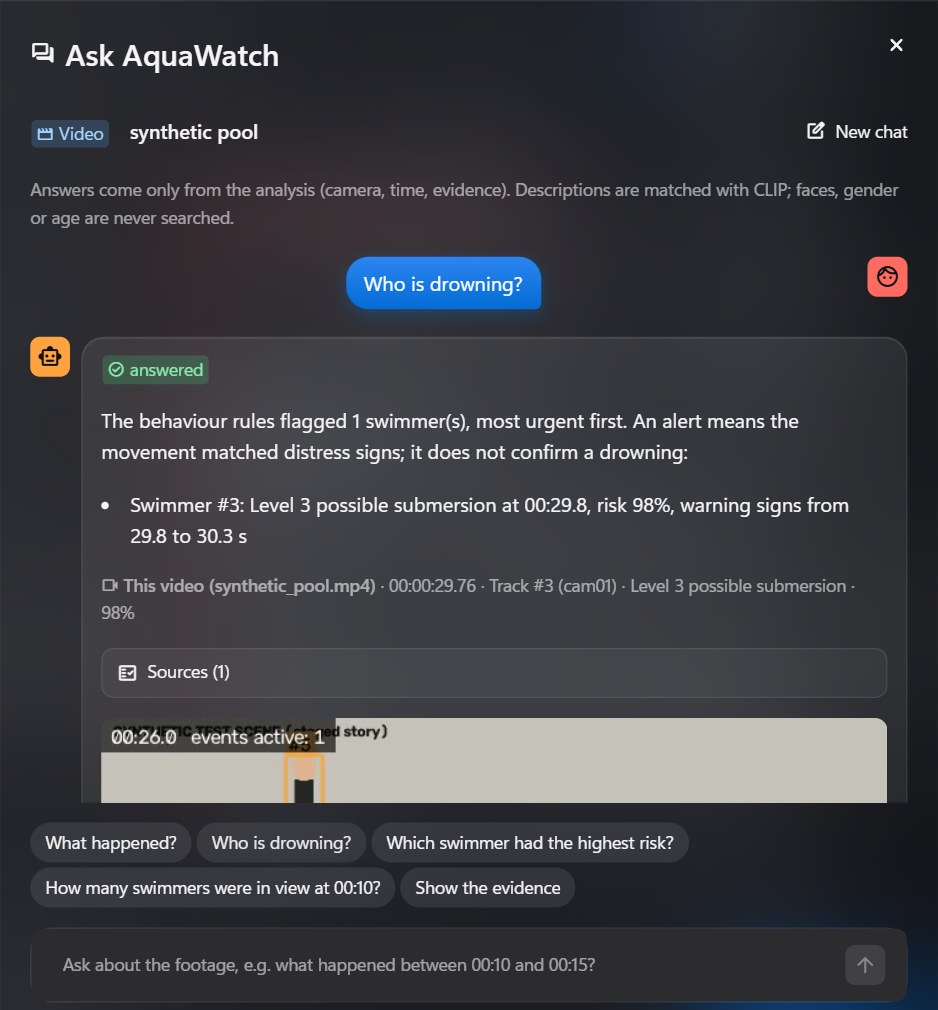
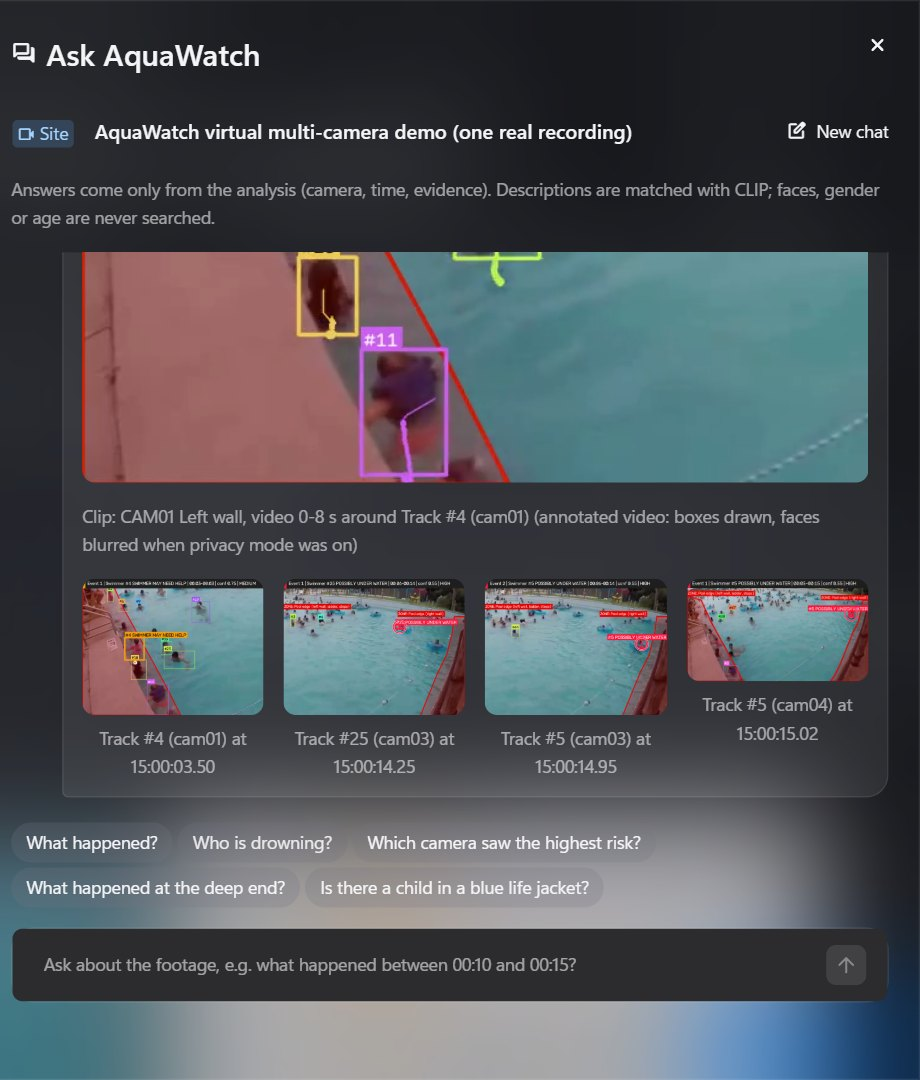
README: project spec, behavioural analysis, tech stack and screenshots

diff --git a/README.md b/README.md
@@ -1,62 +1,251 @@
 # AquaWatch
 
-**Drowning early warning for swimming-pool CCTV.** AquaWatch watches every swimmer, spots distress behaviour and
-alerts the lifeguard: who, where, when and why.
+**An early-warning assistant that watches pool CCTV, reads how every swimmer behaves, and alerts the lifeguard
+before a swimmer in trouble goes unnoticed.**
 
-![AquaWatch results page](images/results.jpg)
+![Single-camera analysis](images/single_camera.jpg)
 
-> **Research prototype.** An extra pair of eyes for lifeguards, never a replacement. On our labelled test videos it
-> caught 2 of 6 victims and raised 13 false alerts.
+> Research prototype. An extra pair of eyes for lifeguards, never a replacement.
 
-## What it does
+---
 
-- **Tracks** every swimmer in the video.
-- **Reads behaviour** twice a second: posture, forward progress, arm movement, head position.
-- **Scores distress** and raises spoken alerts in 3 levels.
-- **Joins several cameras** on one timeline.
-- **Answers questions** in plain English, with the camera, the time and a video clip as proof.
-- **Runs on a laptop CPU**, offline, using 2 threads.
+## 1. The idea
 
-## How it works
+**The problem.** Drowning is usually silent. A swimmer in trouble rarely shouts or waves: they stay upright, make no
+forward progress, press their arms down and their head sinks low. In a crowded pool a lifeguard can miss this for the
+few seconds that matter. Most pools already have CCTV, but nobody can watch every screen all the time.
 
-```mermaid
-flowchart LR
-    V["Pool video"] --> D["Detect and track swimmers<br/>YOLO11 + ByteTrack"]
-    D --> B["Behaviour every 0.5 s<br/>posture, progress, arms, head"]
-    B --> R["Distress risk score"]
-    R --> A["Alert<br/>who, where, when, why"]
-    A --> S["Dashboard + spoken alert"]
-```
+**Our solution.** AquaWatch turns that existing CCTV into a second pair of eyes:
 
-| Level | Alert | When |
-|---|---|---|
-| 1 | Swimmer may need help | risk stays at warning level (0.55) |
-| 2 | High-risk distress | risk 0.7 or more for 5 s |
-| 3 | Possible submersion | a swimmer in distress disappears |
+- It follows **every swimmer** in the video, all the time.
+- It judges **behaviour over time**, not a single frame, so normal swimming, resting and treading water are not
+  mistaken for distress.
+- It raises an **explained alert**: who, where, when, why, with a picture, a chart and a spoken message.
+- It joins **several cameras** on one timeline.
+- Staff can **ask questions in plain English** ("Who is drowning?") and get answers backed by the camera, the time and
+  a video clip.
+- It runs on an **ordinary laptop CPU, offline**. No cloud, no GPU, and faces are never searched.
 
-```mermaid
-flowchart LR
-    C1["Camera 1"] --> P["Same pipeline<br/>on every camera"]
-    C2["Camera 2"] --> P
-    C3["Camera 3"] --> P
-    P --> I[("One event index")]
-    I --> Q["Chat: ask in plain English"]
-    Q --> Ans["Answer with camera,<br/>time and clip"]
-```
+**What makes it different:** explainable behaviour rules instead of a black box, answers that come only from the
+analysis (no AI guessing), and a design that fits cheap hardware a real pool already has.
 
-## Screenshots
+## 2. Scope
 
-| Alerts with evidence | Chat with proof |
+| | |
 |---|---|
-| ![Alert cards](images/alerts.jpg) | ![Chat answer](images/chat.jpg) |
+| **Users** | Lifeguards, pool managers and safety staff; researchers in water safety |
+| **Input** | Recorded pool videos (sample, upload or laptop webcam); one camera or a site of several cameras |
+| **Output** | Alerts, a swimmer status board, an annotated replay, reports, a multi-camera timeline and a chat |
+| **Not in scope** | Live camera streams, face recognition, a certified safety device |
 
-![Multi-camera events](images/multicamera.jpg)
+## 3. System overview
 
-The single-camera screens show our drawn test scene (no real people).
+```mermaid
+flowchart LR
+    V["Pool video"] --> S1["Stage 1<br/>Detect + track<br/>YOLO11 + ByteTrack"]
+    S1 --> S2["Stage 2<br/>Behaviour signals<br/>every 0.5 s"]
+    S2 --> S3["Stage 3<br/>Risk score +<br/>state machine"]
+    S3 --> A["Alerts<br/>who, where, when, why"]
+    A --> UI["Dashboard<br/>status board, replay, reports"]
+    A --> SP["Spoken alert"]
+    A --> IX[("Event index<br/>SQLite")]
+    IX --> CH["Chat<br/>grounded answers"]
+```
 
-## Quick start
+For several cameras, the same pipeline runs on every camera and all events go into one index:
 
-Python 3.11 on Windows, macOS or Linux.
+```mermaid
+flowchart LR
+    C1["Camera 1"] --> P["Pool pipeline<br/>per camera"]
+    C2["Camera 2"] --> P
+    C3["Camera N"] --> P
+    P --> IX[("One event index<br/>one site timeline")]
+    IX --> L["Cross-camera links<br/>same swimmer"]
+    IX --> Q["Ask in plain English"]
+    Q --> R["Answer with camera,<br/>time and clip"]
+```
+
+## 4. Functional requirements
+
+| ID | Requirement | How AquaWatch meets it |
+|---|---|---|
+| FR-1 | Take a pool video | Sample, upload or webcam recording; optional pool zones (deep end, shallow end, wall) |
+| FR-2 | Find and follow every swimmer | YOLO11 detector + ByteTrack tracker; broken tracks are re-joined |
+| FR-3 | Describe behaviour | Posture, progress, arms and head every 0.5 s (section 5) |
+| FR-4 | Score distress | Weighted risk score and a per-swimmer state machine (section 5) |
+| FR-5 | Alert with evidence | 3 alert levels + urgent "possibly under water", each with reasons, snapshot, chart and voice |
+| FR-6 | Show every swimmer's state | Status board synced to a replay slider: normal, watch, warning, not judged |
+| FR-7 | Keep a record | HTML report, summary, highlight reel, timeline, heatmap, JSON files, run log |
+| FR-8 | Handle several cameras | Camera registry, one site timeline, same swimmer linked across cameras |
+| FR-9 | Answer questions | Plain-English chat; every answer cites camera, time and evidence |
+| FR-10 | Learn place names | Asks once which camera "the deep end" is, then remembers it |
+| FR-11 | Find described things | "Is there a child in a blue life jacket?" via CLIP search and a YOLOE check |
+| FR-12 | Check the camera feed | Flags a video that ends early, freezes, has gaps or is too dark |
+| FR-13 | Protect privacy | Runs locally; faces, gender, age never searched; optional face blur |
+
+## 5. Behavioural analysis
+
+### 5.1 Behaviour signals (stage 2)
+
+Every **0.5 s**, for every tracked swimmer, AquaWatch looks at the last **2 s** and measures:
+
+| Signal | What it means | Measured from |
+|---|---|---|
+| **Posture** | horizontal (swimming) / vertical (upright) / head only / underwater | our trained detector's class, else the torso angle from pose keypoints, else the box shape |
+| **Forward progress** | net distance travelled per second, and progress ratio (straight line vs going nowhere) | box centre over time |
+| **Arm movement** | repeated (distress-like) / stroking (swimming) / calm | wrist peaks per second from pose keypoints (6 per second) |
+| **Head** | stable / unstable / submerged | head visibility and bobbing; head height above the shoulders |
+| **Transition** | was this swimmer swimming normally just before? | the last 30 s of the same track |
+| **Stationary** | upright and not moving for 4 s or more | posture + progress |
+
+All distances are measured in **body heights**, so the same rules work near and far from the camera. A new posture
+must last 1 s before it counts (no flicker), and a track that jumps (possible ID switch) is ignored.
+
+![Behaviour notes per swimmer](images/behaviour.jpg)
+
+### 5.2 Distress scoring (stage 3)
+
+Each sample gets a **risk score** = the sum of the warning signs present (max 1.0):
+
+| Warning sign | Weight |
+|---|---|
+| Vertical posture | 0.25 |
+| Little or no forward progress | 0.25 |
+| Repeated distress-like arm movement | 0.25 |
+| Unstable head | 0.15 |
+| Upright and still for a long time | 0.15 |
+| Was swimming normally just before | 0.10 |
+
+**Look-alikes are damped,** so normal pool life does not raise alarms:
+
+- Resting at the wall with calm arms: risk × 0.3.
+- Treading water (upright, calm arms, steady head): risk capped at 0.45.
+- Standing still in the shallow end or on the steps is normal.
+- People outside the water zone are ignored.
+
+A **state machine** per swimmer turns the risk curve into states:
+
+```mermaid
+flowchart LR
+    N["NORMAL"] -->|"risk ≥ 0.3"| W["WATCH"]
+    W -->|"risk ≥ 0.55"| WA["WARNING"]
+    WA -->|"risk ≥ 0.7 held 5 s"| D["DISTRESS"]
+    WA -->|"lost 1.5 s or<br/>head under 1 s"| S["SUBMERSION"]
+    D -->|"lost 1.5 s or<br/>head under 1 s"| S
+```
+
+### 5.3 Alerts
+
+| Level | Alert | Raised when |
+|---|---|---|
+| 1 | **Swimmer may need help** | risk at warning level (0.55) in at least half of the last 5 s |
+| Urgent | **Possibly under water** | a swimmer vanishes in open water, the spot stays empty for 5 s, and someone appears at the same spot within 20 s |
+| 2 | **High-risk aquatic distress** | risk 0.7 or more, held for 5 s |
+| 3 | **Possible submersion** | a swimmer in warning or distress disappears, or the head stays under |
+
+Every alert says **who** (swimmer number), **where** (camera, zone, part of the picture), **when**, and **why** (the
+signs it saw). It has a confidence = 0.4 × margin past the threshold + 0.3 × duration + 0.3 × detection confidence,
+an evidence snapshot, a risk chart, and a **spoken message** ("Lifeguard, please check Swimmer number 2 ...").
+
+| Alert card | Why it was flagged |
+|---|---|
+| ![Alert card](images/alert.jpg) | ![Distress score and evidence](images/distress.jpg) |
+
+## 6. Multi-camera site and chat
+
+**Multi-camera site.** A camera registry lists each camera's name, video, start time and zones. AquaWatch runs the
+pipeline on every camera and writes all events into one SQLite index with video time and clock time. The site page
+shows every camera, the swimmers in view, a risk timeline per camera and all events in one table. The same swimmer is
+linked across overlapping cameras from known camera geometry; colour-based look-alike matches are only offered as
+"unverified". Our demo site is **4 views cut from one recording**, not 4 physical cameras.
+
+![Multi-camera view](images/multi_camera.jpg)
+
+![Events from all cameras](images/multi_camera_events.jpg)
+
+**Chat ("Ask AquaWatch").** A drawer on every page:
+
+- **Grounded answers:** what happened, who may be in trouble, the highest risk, who was in view at a time, the
+  evidence for an alert. Answers are built only from the analysis files, never invented, and cite camera, time,
+  track and a clip.
+- **Question routing:** a CLIP text encoder matches the question to the right kind of answer (no chatbot model).
+- **Clarify once:** an unknown place ("the deep end") is asked about once, saved, and remembered after a restart.
+- **Description search:** CLIP ranks video frames for a description; "Check with YOLOE" can confirm with a box or
+  say "no confident match".
+- **Privacy:** questions about faces, race, skin colour, gender or age are always refused.
+
+<img src="images/chat.jpg" alt="Chat answer with a clip" width="520">
+
+## 7. Non-functional requirements
+
+| Area | Requirement |
+|---|---|
+| **Hardware** | Runs on a laptop CPU, no GPU needed |
+| **Laptop stays usable** | 2 CPU threads and below-normal priority for every analysis (change with `AQUAWATCH_THREADS`) |
+| **Speed** | Detector time per frame on a laptop CPU: 109 ms (swimmer model), 114.5 ms (standard), 729 ms (wide CCTV) |
+| **Offline** | After setup no internet is needed; no usage analytics or telemetry |
+| **Privacy** | Dashboard opens on this computer only; faces never searched; optional face blur on every output |
+| **Explainability** | Every alert shows its signs, numbers, snapshot and chart |
+| **Reliability** | Optional steps (pose, rendering) never crash a run; the camera feed is checked on every run |
+| **Portability** | Windows, macOS and Linux; Python 3.11 |
+| **Configurable** | Every threshold lives in `config.yaml` |
+
+## 8. Quantization and speed-up
+
+The laptop has no GPU, so we made the models faster on a CPU, but only if the boxes stay **exactly as good**. We
+fixed the rule before measuring: a converted model is accepted only if its boxes match the original PyTorch FP32
+model with **F1 ≥ 0.98** on 100 frames.
+
+| Detector | PyTorch FP32 | **OpenVINO FP32 (used)** | OpenVINO INT8 | ONNX INT8 |
+|---|---|---|---|---|
+| YOLO11n @ 640 | 176 ms | **114.5 ms, F1 1.000 (1.54× faster)** | 78 ms, F1 0.927 | 194 ms, F1 0.732 |
+| YOLO11s @ 960 | 975 ms | **729 ms, F1 1.000 (1.34× faster)** | 468 ms, F1 0.917 | 1101 ms, F1 0.800 |
+| Our swimmer model @ 640 | 161 ms | **109 ms, F1 1.000 (1.48× faster)** | 75 ms, F1 0.931 | 188 ms, F1 0.848 |
+
+- **Used: OpenVINO FP32 exports** of all three detectors: identical boxes, 1.3-1.5× faster.
+- **Rejected: INT8** (NNCF and ONNX Runtime post-training quantization). It was up to 2× faster and 3× smaller, but
+  it changed 7-8 % of the boxes. This CPU has no VNNI instructions, so INT8 gains less here than on newer CPUs.
+- **YOLOE / YOLO-World** (chat's "Check with YOLOE"): OpenVINO FP32 exports, 1.4× faster with identical results;
+  INT8 failed.
+- **CLIP search:** the frame index stores **INT8 embeddings** (half the size of FP16, index 588 KB) with the same
+  accuracy. Quantizing CLIP's own weights to INT8 was rejected: it reordered the search results too much.
+- The OpenVINO and ONNX runtimes are capped to the same 2 threads, so the laptop stays usable.
+
+## 9. Tech stack
+
+| Layer | Technology | Used for |
+|---|---|---|
+| Language | **Python 3.11** | everything |
+| Detection | **Ultralytics YOLO11** (YOLO11n, YOLO11s) | finding swimmers |
+| Custom model | **YOLO11n fine-tuned** on 13,081 pool images, 5 classes | swimmer posture: horizontal, vertical, head only, underwater, out of water |
+| Pose | **YOLO11n-pose** | wrists, shoulders, head for arm and head signals |
+| Tracking | **ByteTrack** (Ultralytics, `lap`) + our track stitching | one ID per swimmer over time |
+| Speed-up | **OpenVINO** FP32 IR; NNCF, ONNX Runtime (INT8 trials); **PyTorch** CPU | fast CPU inference (section 8) |
+| Vision-language | **OpenAI CLIP ViT-B/32** via `open_clip` | question routing, description search |
+| Open-vocabulary detection | **YOLOE**, **YOLO-World** | confirming a described object |
+| Video and images | **OpenCV**, **NumPy**, **Pillow**, FFmpeg (optional, H.264) | reading frames, drawing, annotated video |
+| Charts | **Matplotlib** | risk charts, timeline, heatmap |
+| Storage | **SQLite**, JSON / JSONL, **YAML** | event index, saved places, results, settings |
+| Dashboard | **Streamlit 1.65** + custom CSS (light and dark glass theme) | the web interface |
+| Speech | System voices: Windows System.Speech, macOS `say`, Linux `espeak` | offline spoken alerts |
+| Training | **Roboflow Universe** datasets (CC BY 4.0), **Google Colab** T4 GPU | training the swimmer model |
+| Testing | **pytest**, Streamlit AppTest | automated tests (local suite) |
+
+## 10. Results (honest)
+
+| What | Result |
+|---|---|
+| Drawn test scene with ground truth | the distressed swimmer is alerted, look-alikes stay normal: precision 1.00, recall 1.00 |
+| Real labelled recordings | **2 of 6** people in trouble caught, **13 false alerts** |
+| Our swimmer model (held-out test split) | mAP50 0.374, precision 0.424, recall 0.308 |
+| Chat routing | 22/25 single-video and 15/15 site questions right, 0 privacy leaks, median 224 ms |
+| Description search | CLIP: right moment first in 12/19, in the top 5 in 18/19; YOLOE rejected 9/9 "not there" questions |
+
+**Known limits:** the detector can lose a person who is low in the water; one independent test clip is still missed;
+the warning can come several seconds after the person goes under; only recorded video for now; the multi-camera demo
+uses views cut from one recording; the dashboard has no login.
+
+## 11. Getting started
 
 ```bash
 git clone https://github.com/Lokeshraj2006/HexTech-AquaWatch.git
@@ -66,47 +255,48 @@ python aquawatch/get_models.py
 streamlit run app.py
 ```
 
-- `get_models.py` downloads the models once (about 57 MB) from this repo's release and checks them.
-- Add `--with-chat-model` for the optional chat model (about 338 MB, smarter questions and picture search).
+- `get_models.py` downloads the models once (about 57 MB) from this repo's release and checks them (SHA-256).
+  Add `--with-chat-model` for the optional chat model (about 338 MB).
 - Open http://localhost:8501. On Windows you can also double-click `start_aquawatch.bat`.
-- No videos are included. Put your own pool clips in `samples/` or upload one on the page.
+- Put your pool videos in `samples/` or upload one on the page. An example result opens without any video:
+  **Previous results → `data/examples/pool_synthetic`**.
 
 **Command line:**
 
 ```bash
 python aquawatch/run.py --video samples/your_clip.mp4 --scenario pool_trained   # close or medium shot
 python aquawatch/run.py --video samples/your_clip.mp4 --scenario pool_hd        # wide, crowded CCTV
+python aquawatch/run.py --video samples/your_clip.mp4 --scenario pool_trained --reuse   # re-run rules only
 ```
 
-## Detectors
-
-| Preset | Model | Best for |
-|---|---|---|
-| `pool_trained` | our YOLO11n, trained on pool images | close and medium shots |
-| `pool_hd` | stock YOLO11s at 960 px | wide, crowded CCTV (slower) |
-| `pool` | stock YOLO11n | quick checks and drawn test clips |
-
-## Honest status
-
-- The rules work on our drawn test scene with ground truth (every alert right, no false ones).
-- On real footage: 2 of 6 labelled victims caught, 13 false alerts. Detector accuracy on real CCTV is not measured yet.
-- The multi-camera demo is 4 crops of one recording, not 4 real cameras.
-- No login: the dashboard opens on your own computer only.
-
-## Folders
+## 12. Project structure
 
 ```
 app.py          the dashboard
-config.yaml     every threshold
+config.yaml     every threshold and weight
 aquawatch/      all the code
-data/           test questions, rule records, an example result
-training/       train your own swimmer model (Colab)
+  run.py          one video in, one results folder out
+  tracker.py      stage 1: YOLO11 + ByteTrack (stitch.py re-joins tracks)
+  pool_behaviour.py   stage 2: behaviour signals
+  distress.py     stage 3: risk score, state machine, alerts
+  announce.py     spoken alerts
+  ingest.py, event_index.py, geometry.py, reid.py   multi-camera site
+  ps_conversation.py, chat_router.py, memory.py      chat
+  openvocab.py, ovdetect.py   CLIP search, YOLOE / YOLO-World
+  quantize.py     model exports and the speed / accuracy check
+  get_models.py   downloads the models
+data/           chat test questions, pre-registered rules, demo-site settings, an example result
+training/       train your own swimmer model on Colab
 images/         README pictures
 ```
 
-Train your own swimmer model: [training/README.md](training/README.md).
+**Train your own swimmer model:** see [training/README.md](training/README.md) (Colab T4, about 30-40 minutes).
 
-## Licence
+## 13. Team and licence
 
-- **AGPL-3.0** ([LICENSE](LICENSE)), because AquaWatch is built on Ultralytics YOLO (AGPL-3.0).
+Built by [@Lokeshraj2006](https://github.com/Lokeshraj2006),
+[@aathishreesenthilkumar](https://github.com/aathishreesenthilkumar) and
+[@Meenakshi-Urk24cs1254](https://github.com/Meenakshi-Urk24cs1254).
+
+- Licence: **AGPL-3.0** ([LICENSE](LICENSE)), because AquaWatch is built on Ultralytics YOLO (AGPL-3.0).
 - Packages, models and dataset credits: [THIRD_PARTY_NOTICES.md](THIRD_PARTY_NOTICES.md).
